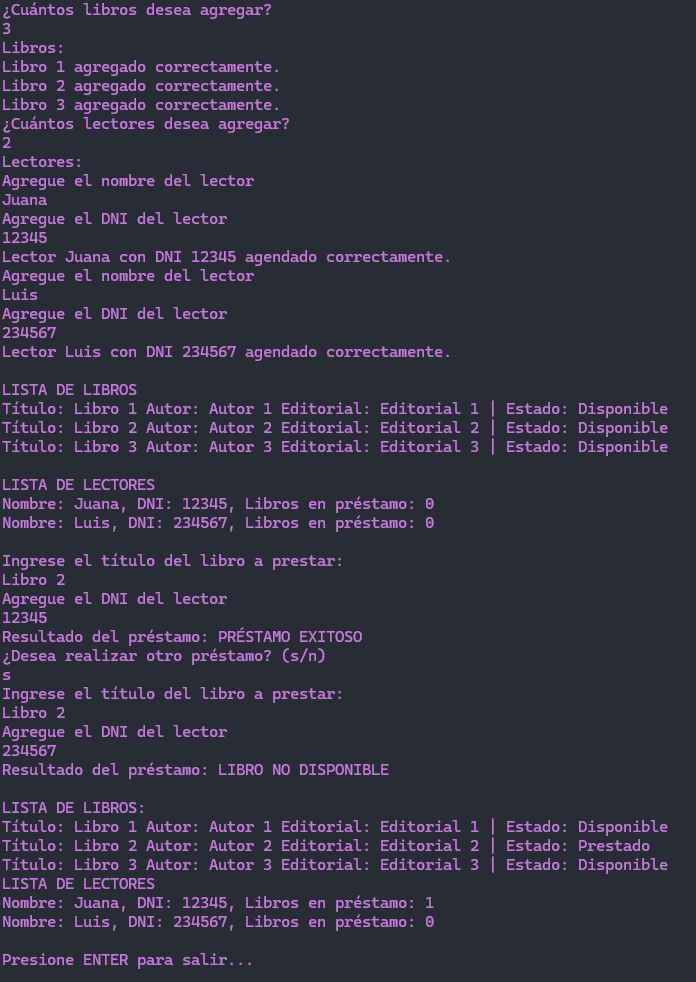
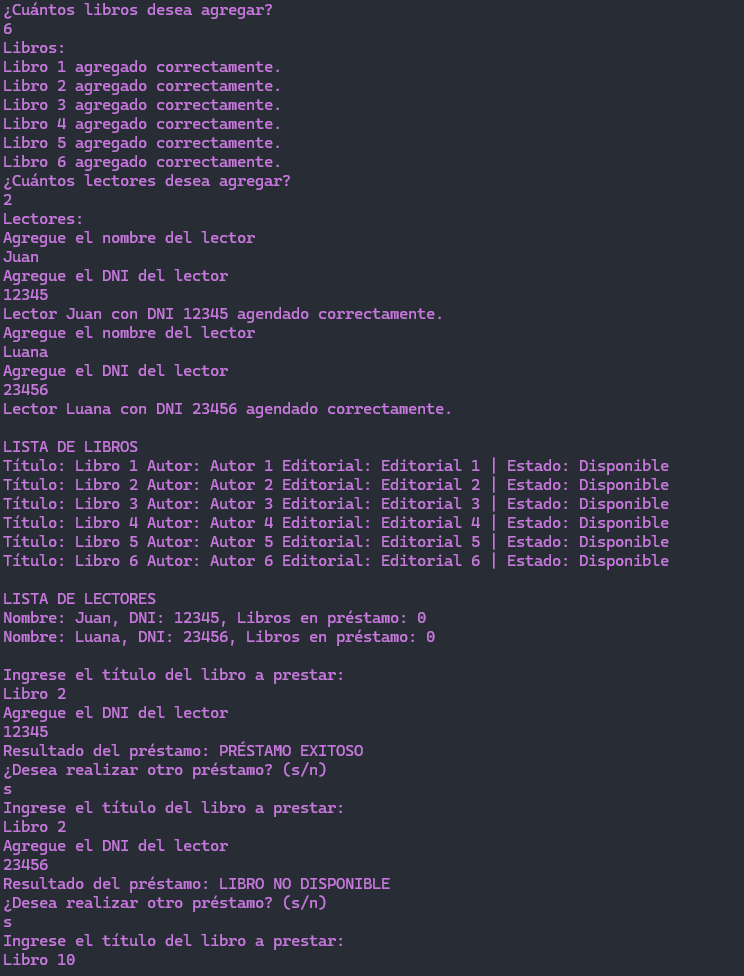
Modico test e imagenes

diff --git a/Biblioteca/Test.cs b/Biblioteca/Test.cs
@@ -22,16 +22,13 @@ namespace Biblioteca
             Console.WriteLine("LISTA DE LECTORES");
             biblioteca.listarLectores();
             Console.WriteLine("");
-            SolicitarYPrestarLibro();
-            if (HayMasDeUnLector())
+            bool continuar = true;
+            while (continuar)
             {
+                SolicitarYPrestarLibro();
                 Console.WriteLine("¿Desea realizar otro préstamo? (s/n)");
                 string respuesta = Console.ReadLine().ToLower();
-
-                if (respuesta == "s")
-                {
-                    SolicitarYPrestarLibro();
-                }
+                continuar = (respuesta == "s");
             }
             Console.WriteLine("");
             Console.WriteLine("LISTA DE LIBROS:");

diff --git a/README.md b/README.md
@@ -60,3 +60,4 @@ git clone https://github.com/Ana-Galvez/Biblioteca.git
 ## Ejemplo de la ejecución del test:
 
 ![Test](./assets/test.png)
+![Test](./assets/test1.png)
